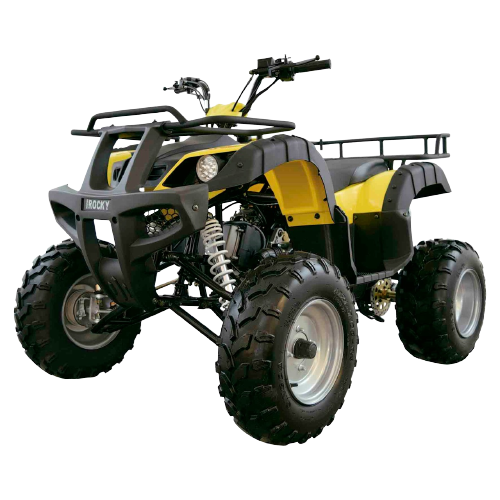
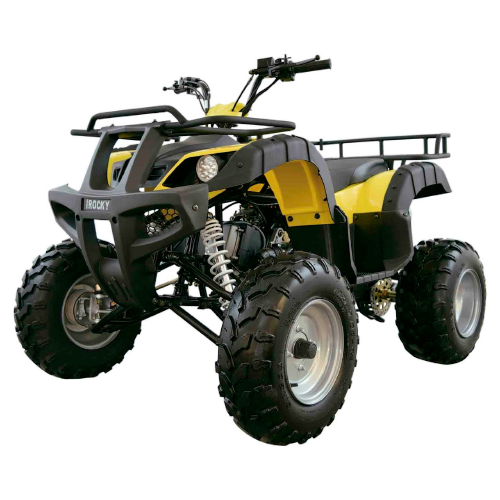
cambio4:07

diff --git a/index.html b/index.html
@@ -99,7 +99,7 @@
 
             </div>
             <div class="card">
-                <img src="img/prubea1.png">
+                <img src="img/molotov.png">
                 <h2 class="frente">Molotov</h2>
                 <h3>Características: </h3>
                 <h4>• Cilindraje real: 200 C.C</h4>
